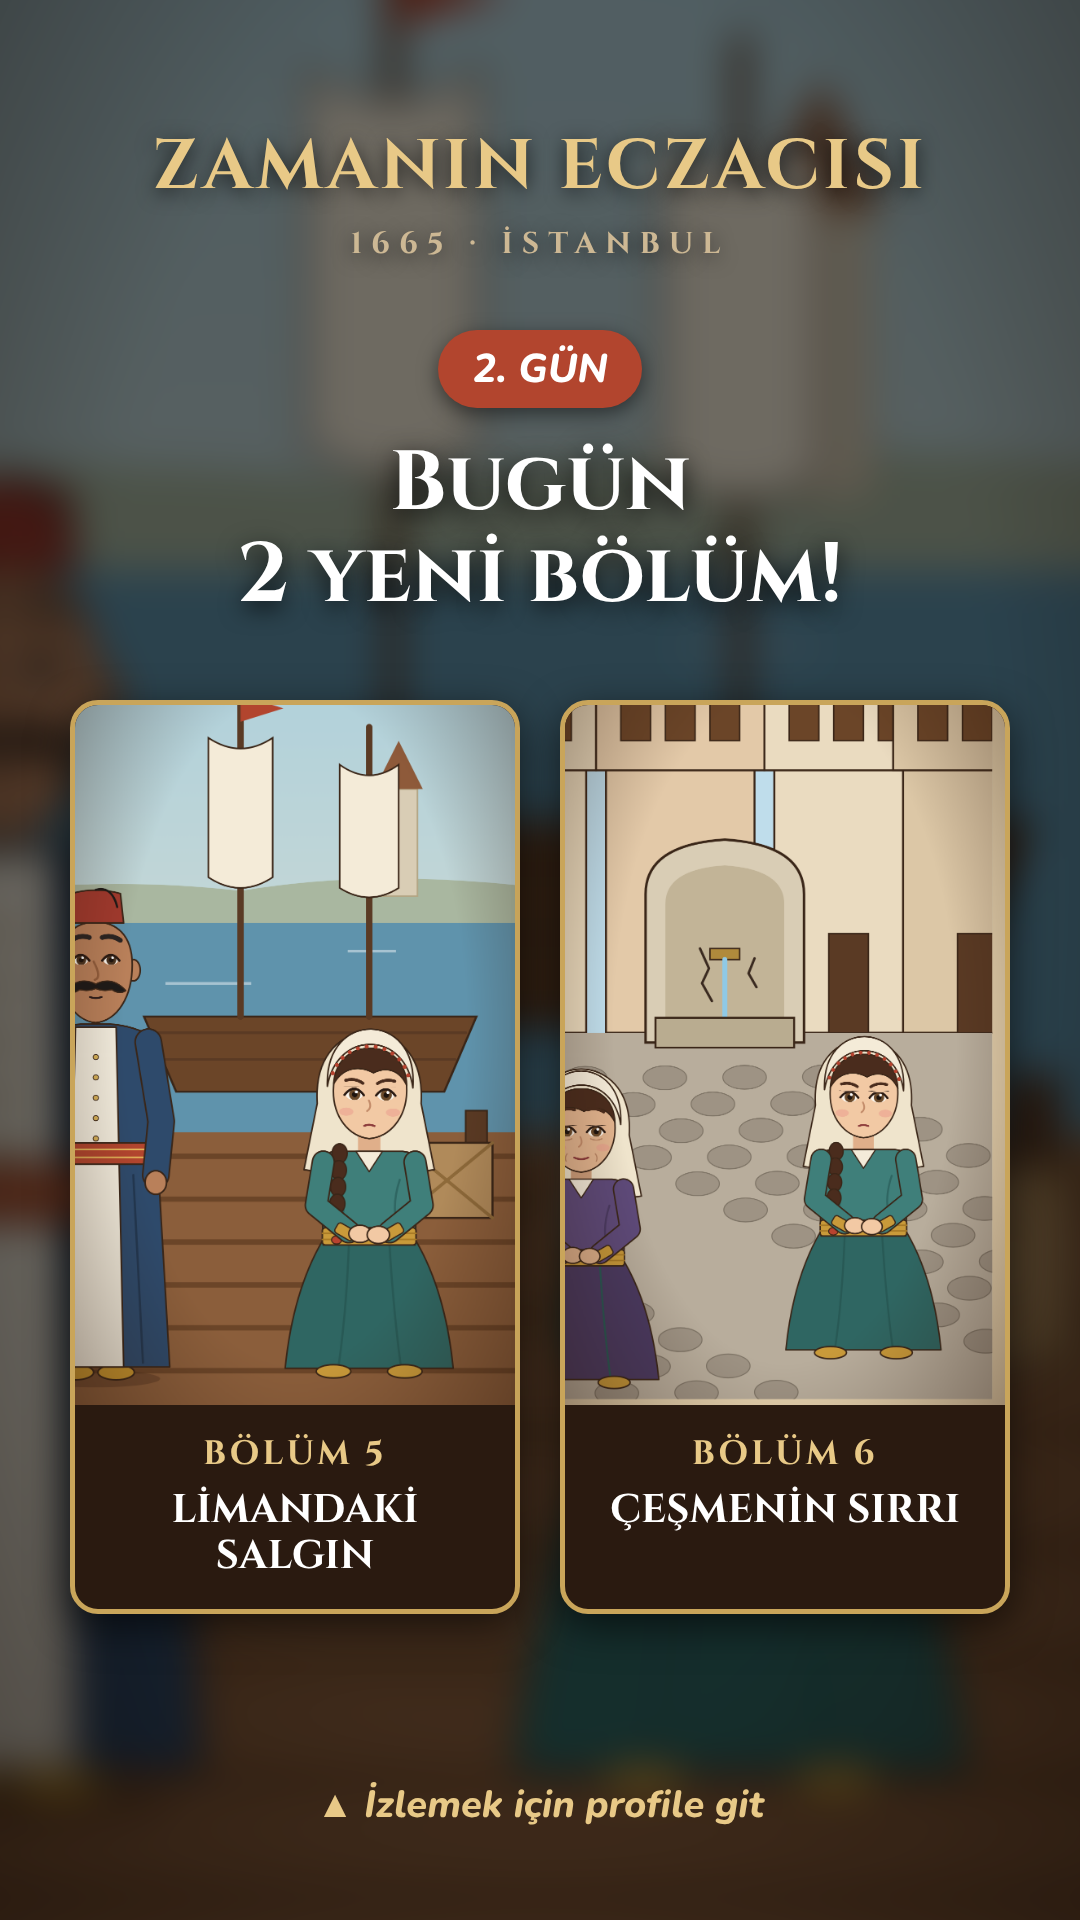
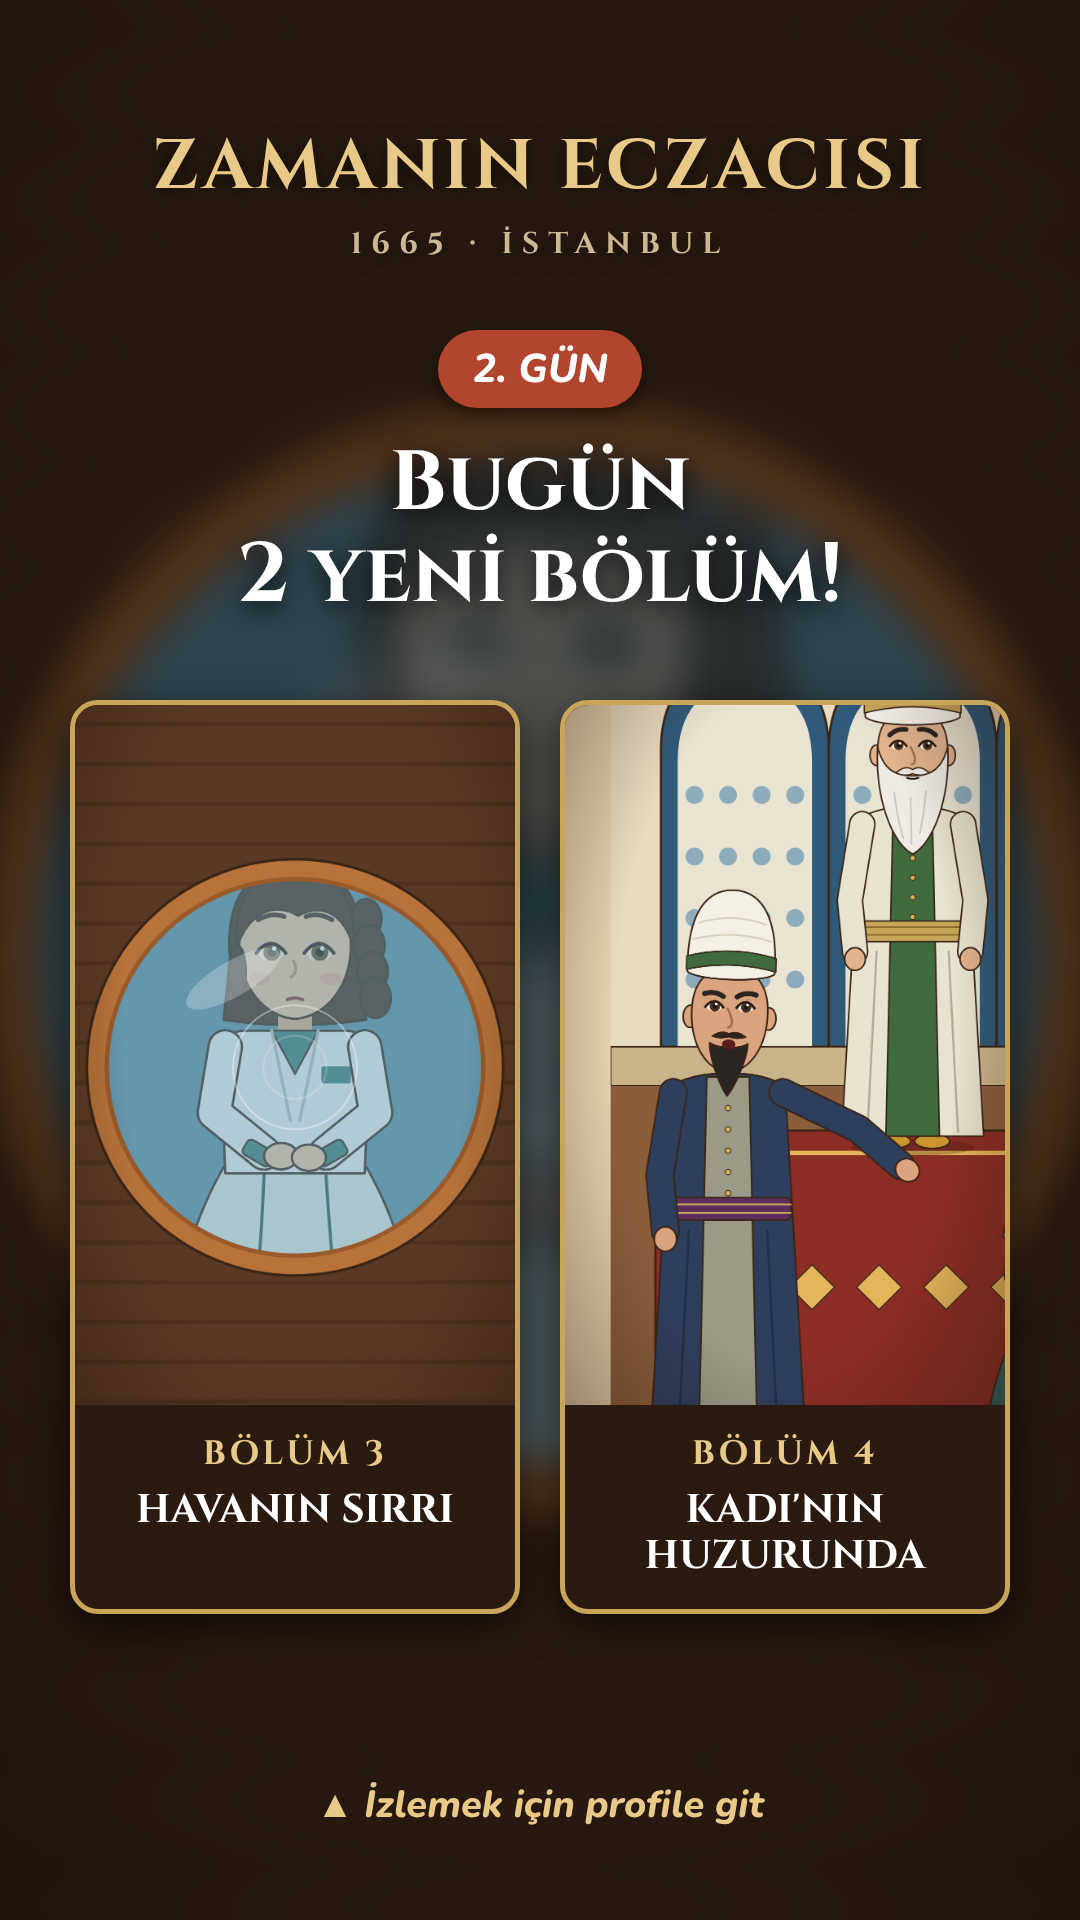
Story gün numaraları: 1. gün Bölüm 1-2, story'ler 2-4. günler
Claude-Session: https://claude.ai/code/session_01U8Y5PMhZkWpmwK4fMq2cp3

diff --git a/video/zamanin-eczacisi/story.py b/video/zamanin-eczacisi/story.py
@@ -13,7 +13,7 @@ BOLUM = {
     7: ("Hekim'in Kızı", 'En büyük düşmanı, gece yarısı kapısını çalıyor.'),
     8: ('İki Dünya', "Havandan gelen ses... Gerçek Ayşe 2026'da!"),
 }
-GUNLER = [(1, 3, 4), (2, 5, 6), (3, 7, 8)]
+GUNLER = [(2, 3, 4), (3, 5, 6), (4, 7, 8)]  # 1. gün: Bölüm 1-2 (yayınlandı)
 
 
 def tr_buyuk(t):
